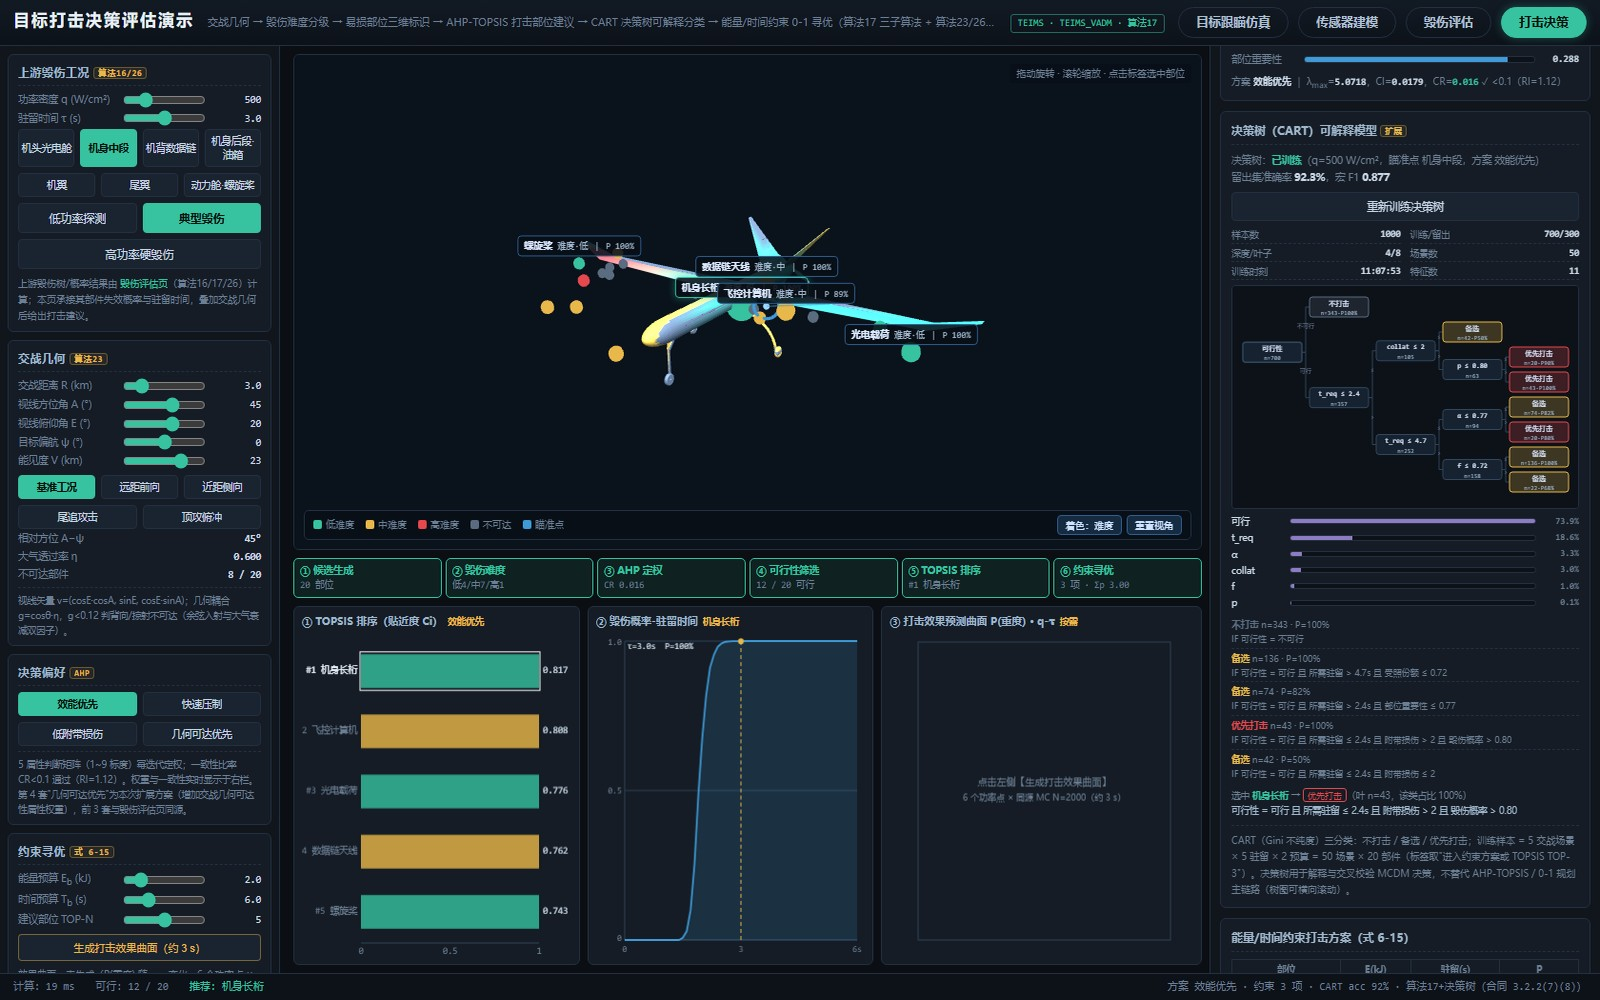
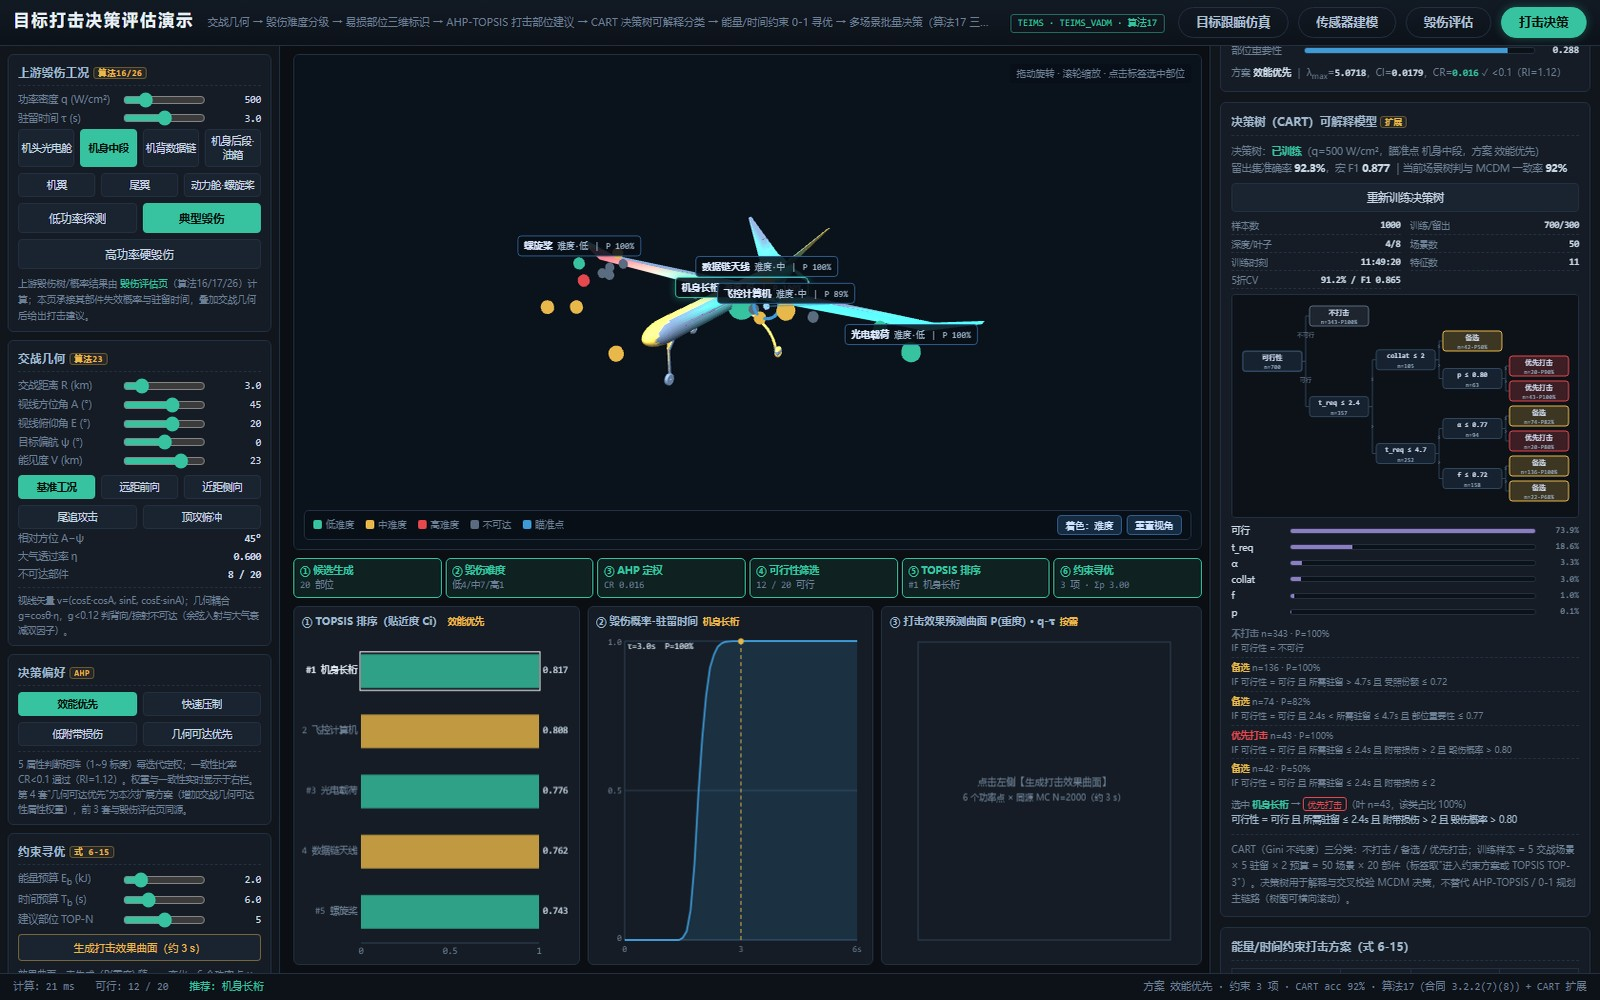
target-tracking: 图表交互查看与CART 5折交叉验证介绍更新

diff --git a/softwares/target-tracking/index.html b/softwares/target-tracking/index.html
@@ -3,7 +3,7 @@
 <head>
   <meta charset="UTF-8">
   <meta name="viewport" content="width=device-width, initial-scale=1.0">
-  <meta name="description" content="目标跟瞄系统演示（桌面本地版）：粗电视 / 精电视 / 中波红外三通道成像退化链实时仿真与 Johnson 准则 DRI 评估，附传感器性能建模、无人机毁伤树毁伤评估与目标打击决策评估（交战几何、毁伤难度分级、易损部位三维标识、AHP-TOPSIS 打击部位建议、CART 决策树可解释分类、能量/时间约束寻优与多场景批量决策）。本页为软件介绍，软件本体在作者本机运行。">
+  <meta name="description" content="目标跟瞄系统演示（桌面本地版）：粗电视 / 精电视 / 中波红外三通道成像退化链实时仿真与 Johnson 准则 DRI 评估，附传感器性能建模、无人机毁伤树毁伤评估与目标打击决策评估（交战几何、毁伤难度分级、易损部位三维标识、AHP-TOPSIS 打击部位建议、CART 决策树与 5 折交叉验证、能量/时间约束寻优、多场景批量决策与图表交互查看）。本页为软件介绍，软件本体在作者本机运行。">
   <title>目标跟瞄系统演示（本地版） | Zhaobing Jiang</title>
   <link rel="stylesheet" href="../../assets/css/style.css">
   <script src="../../assets/js/theme.js?v=2"></script>
@@ -166,7 +166,8 @@
       Johnson 探测 / 识别 / 辨识距离做正向解算；<strong>毁伤评估</strong>页以<strong>无人机毁伤树</strong>（部件失效
       事件经 AND / OR / 表决门逐级聚合）实时评估激光辐照热毁伤下的整机毁伤等级、毁伤概率曲线、最小割集与部件
       重要度；<strong>打击决策评估</strong>页承接毁伤结果与交战几何，按算法 17 完成毁伤难度分级、易损部位三维标识、
-      5 属性 AHP-TOPSIS 打击部位建议、CART 决策树可解释分类与能量 / 时间约束 0-1 寻优，并输出概率-驻留曲线、效果预测曲面与决策报告。
+      5 属性 AHP-TOPSIS 打击部位建议、CART 决策树可解释分类与能量 / 时间约束 0-1 寻优，并输出概率-驻留曲线、效果预测曲面与决策报告；
+      三张结果图支持悬浮提示与点击应用工况，批量决策覆盖 25 个场景。
       软件以网页界面在本机运行，数据不出本机。
     </p>
 
@@ -235,11 +236,12 @@
         <div class="feat-item"><b>CART 决策树可解释分类</b> — 对候选部位做"不打击 / 备选 / 优先打击"三分类，输出 SVG 树结构、特征重要度、主要决策规则与选中部位决策路径；留出集准确率约 92%，用于解释与交叉校验 MCDM 决策（不替代 AHP-TOPSIS / 0-1 规划）。</div>
         <div class="feat-item"><b>多场景批量决策</b> — 固定当前激光工况 / 方案 / 预算，遍历 5 个交战场景 × 5 个驻留 τ 共 25 个场景，逐场景输出推荐部位、毁伤概率、Ci、约束方案 Σp 与整机等级，并导出批量结果 CSV（满足 CSCI_DJBW_RECOMMEND "支持多场景批量决策"）。</div>
         <div class="feat-item"><b>决策结果可视化与导出</b> — 排序柱状图、毁伤概率-驻留时间曲线、打击效果预测曲面（P(重度)·q-τ）与 TOP-N 支撑属性表；支持决策表 CSV、决策报告 Markdown、结果 JSON 与三维标识 PNG 导出。</div>
+        <div class="feat-item"><b>图表交互查看</b> — 排序柱悬浮显示部位/Ci/概率并点击选中；概率-驻留曲线悬浮读数、点击应用 τ；效果曲面悬浮显示 q/τ/P(重度)、点击应用 q/τ（满足 CSCI_JGXS_VIEW"支持交互查看"）。</div>
         <div class="feat-item"><b>纯前端零依赖</b> — Three.js 本地化，无后端、无外网依赖，拷贝即用；四页同端口互跳，双击画面格可放大单通道观察细节。</div>
       </div>
       <p class="metric-line">
         四页一体（跟瞄仿真 / 传感器建模 / 毁伤评估 / 打击决策）· 三通道 2×2 实时渲染 · 成像链 7 环节逐级开关 ·
-        毁伤树 20 底事件 · 蒙特卡洛 N=2000 · 打击决策单次计算 &lt;5 s · CART 决策树可解释分类 · 25 场景批量决策 · 双端交叉核验 45/45 项零偏差 · 距离 0.5~15 km
+        毁伤树 20 底事件 · 蒙特卡洛 N=2000 · 打击决策单次计算 &lt;5 s · CART 决策树可解释分类 + 5 折交叉验证 · 25 场景批量决策 · 图表交互查看 · 双端交叉核验 45/45 项零偏差 · 距离 0.5~15 km
       </p>
     </section>
 
@@ -273,7 +275,8 @@
         以及算法 17（目标打击决策评估：毁伤难度评估 / 易损部位标识 / 打击部位建议）、算法 23（交战几何）
         与算法 26（毁伤概率与结果可视化）实现；第四模块另按用户要求扩展 **CART 决策树**（Gini 不纯度、留出集评估、
         特征重要度与规则导出），用于打击部位三分类的可解释与交叉校验；并按 CSCI_DJBW_RECOMMEND
-        "支持多场景批量决策"要求实现 25 场景批量决策与批量 CSV 导出；
+        "支持多场景批量决策"要求实现 25 场景批量决策与批量 CSV 导出；三张结果图支持悬浮提示与
+        点击应用工况，覆盖 CSCI_JGXS_VIEW 的交互查看要求；
         DRI 数值与 Johnson 准则模块化算法代码保持一致，毁伤树的失效判据按试验 / 经验构建并与故障树分析结合；
         打击决策页的 4 属性 AHP/TOPSIS/0-1 规划算例与外部源“模块06_打击决策”Python 实现交叉校核一致。
         传感器建模页与 Python 模块化计算代码经双端交叉核验（45/45 项零偏差）；大气透过率等定量环节配有
